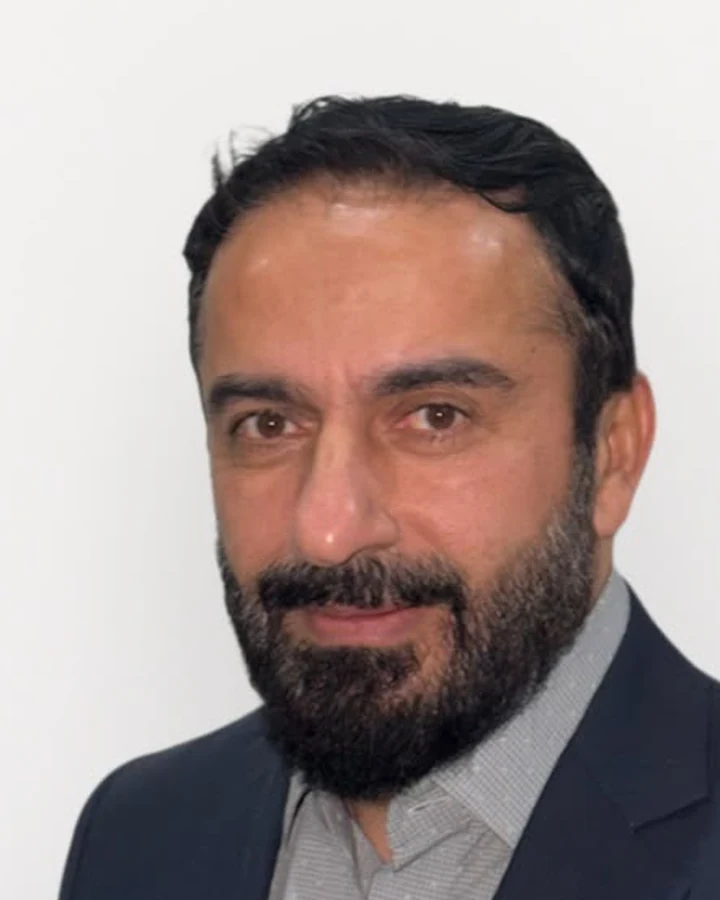
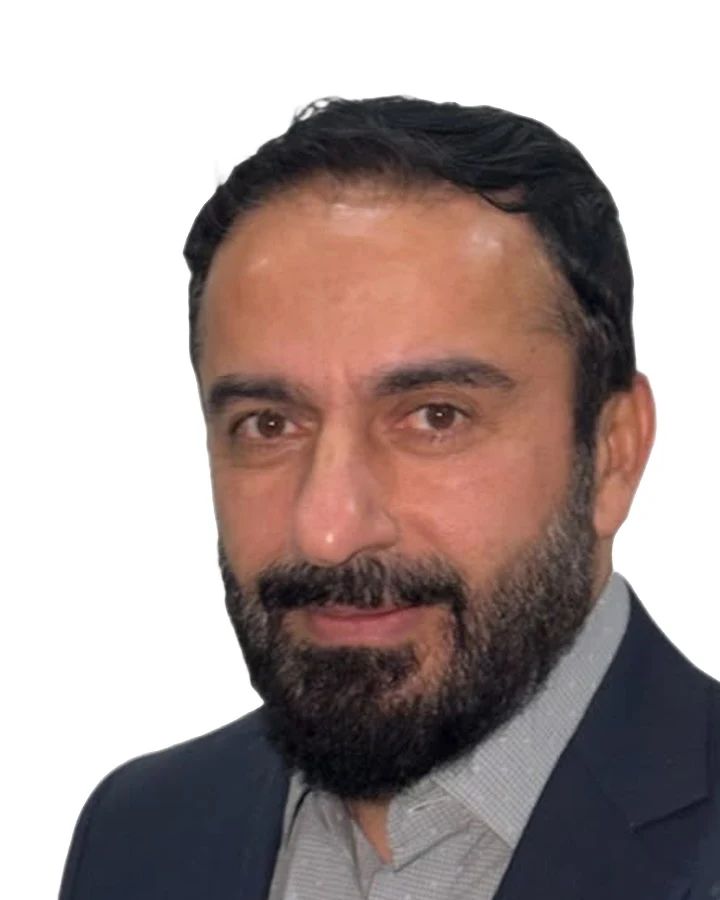
White backgrounds on all team photos

diff --git a/meet-the-team.html b/meet-the-team.html
@@ -22,50 +22,50 @@
 <nav class="nav" id="nav" aria-label="Main"><a href="invest-in-dubai.html"><span>Invest in Dubai</span></a><a href="services.html"><span>Services</span></a><a href="areas.html"><span>Areas</span></a><a href="meet-the-team.html" aria-current=page><span>The Team</span></a><a href="contact.html"><span>Private Consultation</span></a><a class="nav-x" href="https://www.bayut.com/companies/7ei8ht6-properties-8883/" target="_blank" rel="noopener"><span>View Properties</span></a></nav>
 <div class="hdr-r"><button class="lang" type="button" aria-pressed="false" aria-label="Show key headings in Arabic"><span class="l-en">EN</span><span class="l-ar" lang="ar">عربي</span></button>
 <button class="burger" aria-label="Open menu" aria-expanded="false" aria-controls="nav"><i></i><i></i></button></div></header>
-<main id="main"><section class="sub-hero"><div class="sub-bg" data-speed="0.22"><picture class=""><source media="(max-width:760px)" srcset="img/x-night-m.webp?v=13"><img src="img/x-night.webp" alt="Downtown Dubai at night" fetchpriority=high decoding="async"></picture></div><div class="sub-shade"></div>
+<main id="main"><section class="sub-hero"><div class="sub-bg" data-speed="0.22"><picture class=""><source media="(max-width:760px)" srcset="img/x-night-m.webp?v=14"><img src="img/x-night.webp" alt="Downtown Dubai at night" fetchpriority=high decoding="async"></picture></div><div class="sub-shade"></div>
 <div class="sub-in"><p class="kicker"><span>The team</span></p><h1 class="bi d1"><span class="en">38 people.<br>One advisor for you.</span><span class="ar" lang="ar" dir="rtl">فريقنا</span></h1><p class="lead">Every client is given one named advisor. You can reach any of us directly: the numbers below are our own.</p></div></section>
-<section class="leaders solo wrap"><article class="leader rv"><div class="ph"><img src="img/t-fayyaz.webp?v=13" alt="Portrait of Fayyaz (Abu Mustafa) Sayani" loading="lazy" decoding="async"></div>
+<section class="leaders solo wrap"><article class="leader rv"><div class="ph"><img src="img/t-fayyaz.webp?v=14" alt="Portrait of Fayyaz (Abu Mustafa) Sayani" loading="lazy" decoding="async"></div>
 <div class="ld-c"><p class="kicker"><span>Founder &amp; CEO</span></p><h2 class="d2">Fayyaz (Abu Mustafa) Sayani</h2><p class="rera">RERA No. 28370</p><p class="mc"><a href="tel:+971506468786">+971 50 646 8786</a><a href="mailto:fayyaz@7ei8ht6properties.com">fayyaz@7ei8ht6properties.com</a><a href="https://wa.me/971506468786" target="_blank" rel="noopener" aria-label="WhatsApp Fayyaz (Abu Mustafa) Sayani">WhatsApp</a></p></div></article></section>
 <section class="team wrap"><div class="filters" role="group" aria-label="Filter the team">
 <button class="chip on" data-f="all">Everyone (37)</button><button class="chip" data-f="Director">Director</button><button class="chip" data-f="Associate Director">Associate Director</button><button class="chip" data-f="Office Manager">Office Manager</button><button class="chip" data-f="Executive Assistant">Executive Assistant</button><button class="chip" data-f="Administrative Assistant">Administrative Assistant</button><button class="chip" data-f="Property Consultant">Property Consultant</button><button class="chip" data-f="Office Clerk">Office Clerk</button><button class="chip" data-f="Admin Assistant">Admin Assistant</button>
 <label class="search"><span class="sr">Search the team</span><input type="search" id="tsearch" placeholder="Search by name"></label></div>
-<div class="grid"><article class="member" data-role="Director" data-name="zahir alimahomed"><div class="ph"><img src="img/t-zahir.webp?v=13" alt="Portrait of Zahir Alimahomed" loading="lazy" decoding="async"></div>
-<div class="mi"><h3>Zahir Alimahomed</h3><p class="role">Director</p><p class="rera">RERA No. 86228</p><p class="mc"><a href="tel:+971528447229">+971 52 844 7229</a><a href="https://wa.me/971528447229" target="_blank" rel="noopener" aria-label="WhatsApp Zahir Alimahomed">WhatsApp</a></p></div></article><article class="member" data-role="Associate Director" data-name="iqbal ahmed abdullah"><div class="ph"><img src="img/t-iqbal.webp?v=13" alt="Portrait of Iqbal Ahmed Abdullah" loading="lazy" decoding="async"></div>
-<div class="mi"><h3>Iqbal Ahmed Abdullah</h3><p class="role">Associate Director</p><p class="mc"><a href="tel:+971506770131">+971 50 677 0131</a><a href="https://wa.me/971506770131" target="_blank" rel="noopener" aria-label="WhatsApp Iqbal Ahmed Abdullah">WhatsApp</a></p></div></article><article class="member" data-role="Office Manager" data-name="asha nagarupillai"><div class="ph"><img src="img/t-asha.webp?v=13" alt="Portrait of Asha Nagarupillai" loading="lazy" decoding="async"></div>
-<div class="mi"><h3>Asha Nagarupillai</h3><p class="role">Office Manager</p><p class="mc"><a href="tel:+971552410447">+971 55 241 0447</a><a href="https://wa.me/971552410447" target="_blank" rel="noopener" aria-label="WhatsApp Asha Nagarupillai">WhatsApp</a></p></div></article><article class="member" data-role="Executive Assistant" data-name="aiswarya rajeev"><div class="ph"><img src="img/t-aiswarya.webp?v=13" alt="Portrait of Aiswarya Rajeev" loading="lazy" decoding="async"></div>
-<div class="mi"><h3>Aiswarya Rajeev</h3><p class="role">Executive Assistant</p><p class="mc"><a href="tel:+971588008311">+971 58 800 8311</a><a href="https://wa.me/971588008311" target="_blank" rel="noopener" aria-label="WhatsApp Aiswarya Rajeev">WhatsApp</a></p></div></article><article class="member" data-role="Administrative Assistant" data-name="avishna ganesh"><div class="ph"><img src="img/t-avishna.webp?v=13" alt="Portrait of Avishna Ganesh" loading="lazy" decoding="async"></div>
-<div class="mi"><h3>Avishna Ganesh</h3><p class="role">Administrative Assistant</p><p class="mc"><a href="tel:+971508625664">+971 50 862 5664</a><a href="https://wa.me/971508625664" target="_blank" rel="noopener" aria-label="WhatsApp Avishna Ganesh">WhatsApp</a></p></div></article><article class="member" data-role="Associate Director" data-name="muhammad ali abdul sattar"><div class="ph"><img src="img/t-alisattar.webp?v=13" alt="Portrait of Muhammad Ali Abdul Sattar" loading="lazy" decoding="async"></div>
-<div class="mi"><h3>Muhammad Ali Abdul Sattar</h3><p class="role">Associate Director</p><p class="mc"><a href="tel:+971554243200">+971 55 424 3200</a><a href="https://wa.me/971554243200" target="_blank" rel="noopener" aria-label="WhatsApp Muhammad Ali Abdul Sattar">WhatsApp</a></p></div></article><article class="member" data-role="Property Consultant" data-name="divya prakash"><div class="ph"><img src="img/t-divya.webp?v=13" alt="Portrait of Divya Prakash" loading="lazy" decoding="async"></div>
-<div class="mi"><h3>Divya Prakash</h3><p class="role">Property Consultant</p><p class="rera">RERA No. 100215</p><p class="mc"><a href="tel:+971501475717">+971 50 147 5717</a><a href="https://wa.me/971501475717" target="_blank" rel="noopener" aria-label="WhatsApp Divya Prakash">WhatsApp</a></p></div></article><article class="member" data-role="Property Consultant" data-name="khalid awadh"><div class="ph"><img src="img/t-khalid.webp?v=13" alt="Portrait of Khalid Awadh" loading="lazy" decoding="async"></div>
-<div class="mi"><h3>Khalid Awadh</h3><p class="role">Property Consultant</p><p class="rera">RERA No. 30126</p><p class="mc"><a href="tel:+971556207707">+971 55 620 7707</a><a href="https://wa.me/971556207707" target="_blank" rel="noopener" aria-label="WhatsApp Khalid Awadh">WhatsApp</a></p></div></article><article class="member" data-role="Property Consultant" data-name="yousaf nouman"><div class="ph"><img src="img/t-yousaf.webp?v=13" alt="Portrait of Yousaf Nouman" loading="lazy" decoding="async"></div>
-<div class="mi"><h3>Yousaf Nouman</h3><p class="role">Property Consultant</p><p class="rera">RERA No. 42532</p><p class="mc"><a href="tel:+971559168978">+971 55 916 8978</a><a href="https://wa.me/971559168978" target="_blank" rel="noopener" aria-label="WhatsApp Yousaf Nouman">WhatsApp</a></p></div></article><article class="member" data-role="Property Consultant" data-name="mohamed rimnaz"><div class="ph"><img src="img/t-rimnaz.webp?v=13" alt="Portrait of Mohamed Rimnaz" loading="lazy" decoding="async"></div>
-<div class="mi"><h3>Mohamed Rimnaz</h3><p class="role">Property Consultant</p><p class="rera">RERA No. 58866</p><p class="mc"><a href="tel:+971551082177">+971 55 108 2177</a><a href="https://wa.me/971563727202" target="_blank" rel="noopener" aria-label="WhatsApp Mohamed Rimnaz">WhatsApp</a></p></div></article><article class="member" data-role="Property Consultant" data-name="shabnam gulamzada"><div class="ph"><img src="img/t-shabnam.webp?v=13" alt="Portrait of Shabnam Gulamzada" loading="lazy" decoding="async"></div>
-<div class="mi"><h3>Shabnam Gulamzada</h3><p class="role">Property Consultant</p><p class="mc"><a href="tel:+971544786999">+971 54 478 6999</a><a href="https://wa.me/971544786999" target="_blank" rel="noopener" aria-label="WhatsApp Shabnam Gulamzada">WhatsApp</a></p></div></article><article class="member" data-role="Property Consultant" data-name="mohammed abdul arbaaz"><div class="ph"><img src="img/t-arbaaz.webp?v=13" alt="Portrait of Mohammed Abdul Arbaaz" loading="lazy" decoding="async"></div>
-<div class="mi"><h3>Mohammed Abdul Arbaaz</h3><p class="role">Property Consultant</p><p class="rera">RERA No. 88888</p><p class="mc"><a href="tel:+971553020319">+971 55 302 0319</a><a href="https://wa.me/971553020319" target="_blank" rel="noopener" aria-label="WhatsApp Mohammed Abdul Arbaaz">WhatsApp</a></p></div></article><article class="member" data-role="Property Consultant" data-name="rahmath khan mohammed"><div class="ph"><img src="img/t-kashif.webp?v=13" alt="Portrait of Rahmath Khan Mohammed" loading="lazy" decoding="async"></div>
-<div class="mi"><h3>Rahmath Khan Mohammed</h3><p class="role">Property Consultant</p><p class="rera">RERA No. 89787</p><p class="mc"><a href="tel:+971564946215">+971 56 494 6215</a><a href="https://wa.me/971564946215" target="_blank" rel="noopener" aria-label="WhatsApp Rahmath Khan Mohammed">WhatsApp</a></p></div></article><article class="member" data-role="Property Consultant" data-name="saoud faisal bayazeed"><div class="ph"><img src="img/t-saoud.webp?v=13" alt="Portrait of Saoud Faisal Bayazeed" loading="lazy" decoding="async"></div>
-<div class="mi"><h3>Saoud Faisal Bayazeed</h3><p class="role">Property Consultant</p><p class="rera">RERA No. 88889</p><p class="mc"><a href="tel:+971521298470">+971 52 129 8470</a><a href="https://wa.me/971521298470" target="_blank" rel="noopener" aria-label="WhatsApp Saoud Faisal Bayazeed">WhatsApp</a></p></div></article><article class="member" data-role="Property Consultant" data-name="muhammad zain alimahomed"><div class="ph"><img src="img/t-zain.webp?v=13" alt="Portrait of Muhammad Zain Alimahomed" loading="lazy" decoding="async"></div>
-<div class="mi"><h3>Muhammad Zain Alimahomed</h3><p class="role">Property Consultant</p><p class="mc"><a href="tel:+97144439780">+971 4 443 9780</a></p></div></article><article class="member" data-role="Office Clerk" data-name="teresa materum"><div class="ph"><img src="img/t-teresa.webp?v=13" alt="Portrait of Teresa Materum" loading="lazy" decoding="async"></div>
-<div class="mi"><h3>Teresa Materum</h3><p class="role">Office Clerk</p><p class="mc"><a href="tel:+97144439780">+971 4 443 9780</a></p></div></article><article class="member" data-role="Office Clerk" data-name="jessa abaya lopez"><div class="ph"><img src="img/t-jessa.webp?v=13" alt="Portrait of Jessa Abaya Lopez" loading="lazy" decoding="async"></div>
-<div class="mi"><h3>Jessa Abaya Lopez</h3><p class="role">Office Clerk</p><p class="mc"><a href="tel:+97144439780">+971 4 443 9780</a></p></div></article><article class="member" data-role="Office Clerk" data-name="rhea ann banares"><div class="ph"><img src="img/t-rhea.webp?v=13" alt="Portrait of Rhea Ann Banares" loading="lazy" decoding="async"></div>
-<div class="mi"><h3>Rhea Ann Banares</h3><p class="role">Office Clerk</p><p class="mc"><a href="tel:+97144439780">+971 4 443 9780</a></p></div></article><article class="member" data-role="Property Consultant" data-name="mohammed jeelani gulam"><div class="ph"><img src="img/t-jeelani.webp?v=13" alt="Portrait of Mohammed Jeelani Gulam" loading="lazy" decoding="async"></div>
-<div class="mi"><h3>Mohammed Jeelani Gulam</h3><p class="role">Property Consultant</p><p class="mc"><a href="tel:+97144439780">+971 4 443 9780</a></p></div></article><article class="member" data-role="Property Consultant" data-name="muhammad junaid azhar"><div class="ph"><img src="img/t-junaid.webp?v=13" alt="Portrait of Muhammad Junaid Azhar" loading="lazy" decoding="async"></div>
-<div class="mi"><h3>Muhammad Junaid Azhar</h3><p class="role">Property Consultant</p><p class="mc"><a href="tel:+97144439780">+971 4 443 9780</a></p></div></article><article class="member" data-role="Property Consultant" data-name="juned rafik ghanchi"><div class="ph"><img src="img/t-ghanchi.webp?v=13" alt="Portrait of Juned Rafik Ghanchi" loading="lazy" decoding="async"></div>
-<div class="mi"><h3>Juned Rafik Ghanchi</h3><p class="role">Property Consultant</p><p class="mc"><a href="tel:+97144439780">+971 4 443 9780</a></p></div></article><article class="member" data-role="Property Consultant" data-name="abdul rasheed"><div class="ph"><img src="img/t-rasheed.webp?v=13" alt="Portrait of Abdul Rasheed" loading="lazy" decoding="async"></div>
-<div class="mi"><h3>Abdul Rasheed</h3><p class="role">Property Consultant</p><p class="mc"><a href="tel:+97144439780">+971 4 443 9780</a></p></div></article><article class="member" data-role="Property Consultant" data-name="obaida al-jahmi"><div class="ph"><img src="img/t-obaida.webp?v=13" alt="Portrait of Obaida Al-Jahmi" loading="lazy" decoding="async"></div>
-<div class="mi"><h3>Obaida Al-Jahmi</h3><p class="role">Property Consultant</p><p class="mc"><a href="tel:+97144439780">+971 4 443 9780</a></p></div></article><article class="member" data-role="Property Consultant" data-name="frederick nkwenti"><div class="ph"><img src="img/t-fred.webp?v=13" alt="Portrait of Frederick Nkwenti" loading="lazy" decoding="async"></div>
-<div class="mi"><h3>Frederick Nkwenti</h3><p class="role">Property Consultant</p><p class="mc"><a href="tel:+97144439780">+971 4 443 9780</a></p></div></article><article class="member" data-role="Executive Assistant" data-name="blaise quinga"><div class="ph"><img src="img/t-blaise.webp?v=13" alt="Portrait of Blaise Quinga" loading="lazy" decoding="async"></div>
-<div class="mi"><h3>Blaise Quinga</h3><p class="role">Executive Assistant</p><p class="mc"><a href="tel:+97144439780">+971 4 443 9780</a></p></div></article><article class="member" data-role="Property Consultant" data-name="samer haj"><div class="ph"><img src="img/t-samer.webp?v=13" alt="Portrait of Samer Haj" loading="lazy" decoding="async"></div>
-<div class="mi"><h3>Samer Haj</h3><p class="role">Property Consultant</p><p class="mc"><a href="tel:+97144439780">+971 4 443 9780</a></p></div></article><article class="member" data-role="Property Consultant" data-name="muhammad kamran"><div class="ph"><img src="img/t-kamran.webp?v=13" alt="Portrait of Muhammad Kamran" loading="lazy" decoding="async"></div>
-<div class="mi"><h3>Muhammad Kamran</h3><p class="role">Property Consultant</p><p class="mc"><a href="tel:+97144439780">+971 4 443 9780</a></p></div></article><article class="member" data-role="Property Consultant" data-name="mushtaq ahmed"><div class="ph"><img src="img/t-mushtaq.webp?v=13" alt="Portrait of Mushtaq Ahmed" loading="lazy" decoding="async"></div>
-<div class="mi"><h3>Mushtaq Ahmed</h3><p class="role">Property Consultant</p><p class="mc"><a href="tel:+97144439780">+971 4 443 9780</a></p></div></article><article class="member" data-role="Property Consultant" data-name="nethin cot"><div class="ph"><img src="img/t-nethin.webp?v=13" alt="Portrait of Nethin Cot" loading="lazy" decoding="async"></div>
-<div class="mi"><h3>Nethin Cot</h3><p class="role">Property Consultant</p><p class="mc"><a href="tel:+97144439780">+971 4 443 9780</a></p></div></article><article class="member" data-role="Property Consultant" data-name="nabil peerally"><div class="ph"><img src="img/t-nabil.webp?v=13" alt="Portrait of Nabil Peerally" loading="lazy" decoding="async"></div>
-<div class="mi"><h3>Nabil Peerally</h3><p class="role">Property Consultant</p><p class="mc"><a href="tel:+97144439780">+971 4 443 9780</a></p></div></article><article class="member" data-role="Property Consultant" data-name="nikhil ahmed"><div class="ph"><img src="img/t-nikhil.webp?v=13" alt="Portrait of Nikhil Ahmed" loading="lazy" decoding="async"></div>
-<div class="mi"><h3>Nikhil Ahmed</h3><p class="role">Property Consultant</p><p class="mc"><a href="tel:+97144439780">+971 4 443 9780</a></p></div></article><article class="member" data-role="Property Consultant" data-name="malik muhammad ishaq"><div class="ph"><img src="img/t-malik.webp?v=13" alt="Portrait of Malik Muhammad Ishaq" loading="lazy" decoding="async"></div>
-<div class="mi"><h3>Malik Muhammad Ishaq</h3><p class="role">Property Consultant</p><p class="mc"><a href="tel:+97144439780">+971 4 443 9780</a></p></div></article><article class="member" data-role="Property Consultant" data-name="mahboob ali khan mir"><div class="ph"><img src="img/t-mahboob.webp?v=13" alt="Portrait of Mahboob Ali Khan Mir" loading="lazy" decoding="async"></div>
-<div class="mi"><h3>Mahboob Ali Khan Mir</h3><p class="role">Property Consultant</p><p class="mc"><a href="tel:+97144439780">+971 4 443 9780</a></p></div></article><article class="member" data-role="Property Consultant" data-name="faisal murtaza"><div class="ph"><img src="img/t-faisal.webp?v=13" alt="Portrait of Faisal Murtaza" loading="lazy" decoding="async"></div>
-<div class="mi"><h3>Faisal Murtaza</h3><p class="role">Property Consultant</p><p class="mc"><a href="tel:+97144439780">+971 4 443 9780</a></p></div></article><article class="member" data-role="Property Consultant" data-name="ashfaque shaikh"><div class="ph"><img src="img/t-ashfaque.webp?v=13" alt="Portrait of Ashfaque Shaikh" loading="lazy" decoding="async"></div>
-<div class="mi"><h3>Ashfaque Shaikh</h3><p class="role">Property Consultant</p><p class="mc"><a href="tel:+97144439780">+971 4 443 9780</a></p></div></article><article class="member" data-role="Property Consultant" data-name="balal asad"><div class="ph"><img src="img/t-balal.webp?v=13" alt="Portrait of Balal Asad" loading="lazy" decoding="async"></div>
-<div class="mi"><h3>Balal Asad</h3><p class="role">Property Consultant</p><p class="mc"><a href="tel:+97144439780">+971 4 443 9780</a></p></div></article><article class="member" data-role="Admin Assistant" data-name="hazel heramil"><div class="ph"><img src="img/t-hazel.webp?v=13" alt="Portrait of Hazel Heramil" loading="lazy" decoding="async"></div>
+<div class="grid"><article class="member" data-role="Director" data-name="zahir alimahomed"><div class="ph"><img src="img/t-zahir.webp?v=14" alt="Portrait of Zahir Alimahomed" loading="lazy" decoding="async"></div>
+<div class="mi"><h3>Zahir Alimahomed</h3><p class="role">Director</p><p class="rera">RERA No. 86228</p><p class="mc"><a href="tel:+971528447229">+971 52 844 7229</a><a href="https://wa.me/971528447229" target="_blank" rel="noopener" aria-label="WhatsApp Zahir Alimahomed">WhatsApp</a></p></div></article><article class="member" data-role="Associate Director" data-name="iqbal ahmed abdullah"><div class="ph"><img src="img/t-iqbal.webp?v=14" alt="Portrait of Iqbal Ahmed Abdullah" loading="lazy" decoding="async"></div>
+<div class="mi"><h3>Iqbal Ahmed Abdullah</h3><p class="role">Associate Director</p><p class="mc"><a href="tel:+971506770131">+971 50 677 0131</a><a href="https://wa.me/971506770131" target="_blank" rel="noopener" aria-label="WhatsApp Iqbal Ahmed Abdullah">WhatsApp</a></p></div></article><article class="member" data-role="Office Manager" data-name="asha nagarupillai"><div class="ph"><img src="img/t-asha.webp?v=14" alt="Portrait of Asha Nagarupillai" loading="lazy" decoding="async"></div>
+<div class="mi"><h3>Asha Nagarupillai</h3><p class="role">Office Manager</p><p class="mc"><a href="tel:+971552410447">+971 55 241 0447</a><a href="https://wa.me/971552410447" target="_blank" rel="noopener" aria-label="WhatsApp Asha Nagarupillai">WhatsApp</a></p></div></article><article class="member" data-role="Executive Assistant" data-name="aiswarya rajeev"><div class="ph"><img src="img/t-aiswarya.webp?v=14" alt="Portrait of Aiswarya Rajeev" loading="lazy" decoding="async"></div>
+<div class="mi"><h3>Aiswarya Rajeev</h3><p class="role">Executive Assistant</p><p class="mc"><a href="tel:+971588008311">+971 58 800 8311</a><a href="https://wa.me/971588008311" target="_blank" rel="noopener" aria-label="WhatsApp Aiswarya Rajeev">WhatsApp</a></p></div></article><article class="member" data-role="Administrative Assistant" data-name="avishna ganesh"><div class="ph"><img src="img/t-avishna.webp?v=14" alt="Portrait of Avishna Ganesh" loading="lazy" decoding="async"></div>
+<div class="mi"><h3>Avishna Ganesh</h3><p class="role">Administrative Assistant</p><p class="mc"><a href="tel:+971508625664">+971 50 862 5664</a><a href="https://wa.me/971508625664" target="_blank" rel="noopener" aria-label="WhatsApp Avishna Ganesh">WhatsApp</a></p></div></article><article class="member" data-role="Associate Director" data-name="muhammad ali abdul sattar"><div class="ph"><img src="img/t-alisattar.webp?v=14" alt="Portrait of Muhammad Ali Abdul Sattar" loading="lazy" decoding="async"></div>
+<div class="mi"><h3>Muhammad Ali Abdul Sattar</h3><p class="role">Associate Director</p><p class="mc"><a href="tel:+971554243200">+971 55 424 3200</a><a href="https://wa.me/971554243200" target="_blank" rel="noopener" aria-label="WhatsApp Muhammad Ali Abdul Sattar">WhatsApp</a></p></div></article><article class="member" data-role="Property Consultant" data-name="divya prakash"><div class="ph"><img src="img/t-divya.webp?v=14" alt="Portrait of Divya Prakash" loading="lazy" decoding="async"></div>
+<div class="mi"><h3>Divya Prakash</h3><p class="role">Property Consultant</p><p class="rera">RERA No. 100215</p><p class="mc"><a href="tel:+971501475717">+971 50 147 5717</a><a href="https://wa.me/971501475717" target="_blank" rel="noopener" aria-label="WhatsApp Divya Prakash">WhatsApp</a></p></div></article><article class="member" data-role="Property Consultant" data-name="khalid awadh"><div class="ph"><img src="img/t-khalid.webp?v=14" alt="Portrait of Khalid Awadh" loading="lazy" decoding="async"></div>
+<div class="mi"><h3>Khalid Awadh</h3><p class="role">Property Consultant</p><p class="rera">RERA No. 30126</p><p class="mc"><a href="tel:+971556207707">+971 55 620 7707</a><a href="https://wa.me/971556207707" target="_blank" rel="noopener" aria-label="WhatsApp Khalid Awadh">WhatsApp</a></p></div></article><article class="member" data-role="Property Consultant" data-name="yousaf nouman"><div class="ph"><img src="img/t-yousaf.webp?v=14" alt="Portrait of Yousaf Nouman" loading="lazy" decoding="async"></div>
+<div class="mi"><h3>Yousaf Nouman</h3><p class="role">Property Consultant</p><p class="rera">RERA No. 42532</p><p class="mc"><a href="tel:+971559168978">+971 55 916 8978</a><a href="https://wa.me/971559168978" target="_blank" rel="noopener" aria-label="WhatsApp Yousaf Nouman">WhatsApp</a></p></div></article><article class="member" data-role="Property Consultant" data-name="mohamed rimnaz"><div class="ph"><img src="img/t-rimnaz.webp?v=14" alt="Portrait of Mohamed Rimnaz" loading="lazy" decoding="async"></div>
+<div class="mi"><h3>Mohamed Rimnaz</h3><p class="role">Property Consultant</p><p class="rera">RERA No. 58866</p><p class="mc"><a href="tel:+971551082177">+971 55 108 2177</a><a href="https://wa.me/971563727202" target="_blank" rel="noopener" aria-label="WhatsApp Mohamed Rimnaz">WhatsApp</a></p></div></article><article class="member" data-role="Property Consultant" data-name="shabnam gulamzada"><div class="ph"><img src="img/t-shabnam.webp?v=14" alt="Portrait of Shabnam Gulamzada" loading="lazy" decoding="async"></div>
+<div class="mi"><h3>Shabnam Gulamzada</h3><p class="role">Property Consultant</p><p class="mc"><a href="tel:+971544786999">+971 54 478 6999</a><a href="https://wa.me/971544786999" target="_blank" rel="noopener" aria-label="WhatsApp Shabnam Gulamzada">WhatsApp</a></p></div></article><article class="member" data-role="Property Consultant" data-name="mohammed abdul arbaaz"><div class="ph"><img src="img/t-arbaaz.webp?v=14" alt="Portrait of Mohammed Abdul Arbaaz" loading="lazy" decoding="async"></div>
+<div class="mi"><h3>Mohammed Abdul Arbaaz</h3><p class="role">Property Consultant</p><p class="rera">RERA No. 88888</p><p class="mc"><a href="tel:+971553020319">+971 55 302 0319</a><a href="https://wa.me/971553020319" target="_blank" rel="noopener" aria-label="WhatsApp Mohammed Abdul Arbaaz">WhatsApp</a></p></div></article><article class="member" data-role="Property Consultant" data-name="rahmath khan mohammed"><div class="ph"><img src="img/t-kashif.webp?v=14" alt="Portrait of Rahmath Khan Mohammed" loading="lazy" decoding="async"></div>
+<div class="mi"><h3>Rahmath Khan Mohammed</h3><p class="role">Property Consultant</p><p class="rera">RERA No. 89787</p><p class="mc"><a href="tel:+971564946215">+971 56 494 6215</a><a href="https://wa.me/971564946215" target="_blank" rel="noopener" aria-label="WhatsApp Rahmath Khan Mohammed">WhatsApp</a></p></div></article><article class="member" data-role="Property Consultant" data-name="saoud faisal bayazeed"><div class="ph"><img src="img/t-saoud.webp?v=14" alt="Portrait of Saoud Faisal Bayazeed" loading="lazy" decoding="async"></div>
+<div class="mi"><h3>Saoud Faisal Bayazeed</h3><p class="role">Property Consultant</p><p class="rera">RERA No. 88889</p><p class="mc"><a href="tel:+971521298470">+971 52 129 8470</a><a href="https://wa.me/971521298470" target="_blank" rel="noopener" aria-label="WhatsApp Saoud Faisal Bayazeed">WhatsApp</a></p></div></article><article class="member" data-role="Property Consultant" data-name="muhammad zain alimahomed"><div class="ph"><img src="img/t-zain.webp?v=14" alt="Portrait of Muhammad Zain Alimahomed" loading="lazy" decoding="async"></div>
+<div class="mi"><h3>Muhammad Zain Alimahomed</h3><p class="role">Property Consultant</p><p class="mc"><a href="tel:+97144439780">+971 4 443 9780</a></p></div></article><article class="member" data-role="Office Clerk" data-name="teresa materum"><div class="ph"><img src="img/t-teresa.webp?v=14" alt="Portrait of Teresa Materum" loading="lazy" decoding="async"></div>
+<div class="mi"><h3>Teresa Materum</h3><p class="role">Office Clerk</p><p class="mc"><a href="tel:+97144439780">+971 4 443 9780</a></p></div></article><article class="member" data-role="Office Clerk" data-name="jessa abaya lopez"><div class="ph"><img src="img/t-jessa.webp?v=14" alt="Portrait of Jessa Abaya Lopez" loading="lazy" decoding="async"></div>
+<div class="mi"><h3>Jessa Abaya Lopez</h3><p class="role">Office Clerk</p><p class="mc"><a href="tel:+97144439780">+971 4 443 9780</a></p></div></article><article class="member" data-role="Office Clerk" data-name="rhea ann banares"><div class="ph"><img src="img/t-rhea.webp?v=14" alt="Portrait of Rhea Ann Banares" loading="lazy" decoding="async"></div>
+<div class="mi"><h3>Rhea Ann Banares</h3><p class="role">Office Clerk</p><p class="mc"><a href="tel:+97144439780">+971 4 443 9780</a></p></div></article><article class="member" data-role="Property Consultant" data-name="mohammed jeelani gulam"><div class="ph"><img src="img/t-jeelani.webp?v=14" alt="Portrait of Mohammed Jeelani Gulam" loading="lazy" decoding="async"></div>
+<div class="mi"><h3>Mohammed Jeelani Gulam</h3><p class="role">Property Consultant</p><p class="mc"><a href="tel:+97144439780">+971 4 443 9780</a></p></div></article><article class="member" data-role="Property Consultant" data-name="muhammad junaid azhar"><div class="ph"><img src="img/t-junaid.webp?v=14" alt="Portrait of Muhammad Junaid Azhar" loading="lazy" decoding="async"></div>
+<div class="mi"><h3>Muhammad Junaid Azhar</h3><p class="role">Property Consultant</p><p class="mc"><a href="tel:+97144439780">+971 4 443 9780</a></p></div></article><article class="member" data-role="Property Consultant" data-name="juned rafik ghanchi"><div class="ph"><img src="img/t-ghanchi.webp?v=14" alt="Portrait of Juned Rafik Ghanchi" loading="lazy" decoding="async"></div>
+<div class="mi"><h3>Juned Rafik Ghanchi</h3><p class="role">Property Consultant</p><p class="mc"><a href="tel:+97144439780">+971 4 443 9780</a></p></div></article><article class="member" data-role="Property Consultant" data-name="abdul rasheed"><div class="ph"><img src="img/t-rasheed.webp?v=14" alt="Portrait of Abdul Rasheed" loading="lazy" decoding="async"></div>
+<div class="mi"><h3>Abdul Rasheed</h3><p class="role">Property Consultant</p><p class="mc"><a href="tel:+97144439780">+971 4 443 9780</a></p></div></article><article class="member" data-role="Property Consultant" data-name="obaida al-jahmi"><div class="ph"><img src="img/t-obaida.webp?v=14" alt="Portrait of Obaida Al-Jahmi" loading="lazy" decoding="async"></div>
+<div class="mi"><h3>Obaida Al-Jahmi</h3><p class="role">Property Consultant</p><p class="mc"><a href="tel:+97144439780">+971 4 443 9780</a></p></div></article><article class="member" data-role="Property Consultant" data-name="frederick nkwenti"><div class="ph"><img src="img/t-fred.webp?v=14" alt="Portrait of Frederick Nkwenti" loading="lazy" decoding="async"></div>
+<div class="mi"><h3>Frederick Nkwenti</h3><p class="role">Property Consultant</p><p class="mc"><a href="tel:+97144439780">+971 4 443 9780</a></p></div></article><article class="member" data-role="Executive Assistant" data-name="blaise quinga"><div class="ph"><img src="img/t-blaise.webp?v=14" alt="Portrait of Blaise Quinga" loading="lazy" decoding="async"></div>
+<div class="mi"><h3>Blaise Quinga</h3><p class="role">Executive Assistant</p><p class="mc"><a href="tel:+97144439780">+971 4 443 9780</a></p></div></article><article class="member" data-role="Property Consultant" data-name="samer haj"><div class="ph"><img src="img/t-samer.webp?v=14" alt="Portrait of Samer Haj" loading="lazy" decoding="async"></div>
+<div class="mi"><h3>Samer Haj</h3><p class="role">Property Consultant</p><p class="mc"><a href="tel:+97144439780">+971 4 443 9780</a></p></div></article><article class="member" data-role="Property Consultant" data-name="muhammad kamran"><div class="ph"><img src="img/t-kamran.webp?v=14" alt="Portrait of Muhammad Kamran" loading="lazy" decoding="async"></div>
+<div class="mi"><h3>Muhammad Kamran</h3><p class="role">Property Consultant</p><p class="mc"><a href="tel:+97144439780">+971 4 443 9780</a></p></div></article><article class="member" data-role="Property Consultant" data-name="mushtaq ahmed"><div class="ph"><img src="img/t-mushtaq.webp?v=14" alt="Portrait of Mushtaq Ahmed" loading="lazy" decoding="async"></div>
+<div class="mi"><h3>Mushtaq Ahmed</h3><p class="role">Property Consultant</p><p class="mc"><a href="tel:+97144439780">+971 4 443 9780</a></p></div></article><article class="member" data-role="Property Consultant" data-name="nethin cot"><div class="ph"><img src="img/t-nethin.webp?v=14" alt="Portrait of Nethin Cot" loading="lazy" decoding="async"></div>
+<div class="mi"><h3>Nethin Cot</h3><p class="role">Property Consultant</p><p class="mc"><a href="tel:+97144439780">+971 4 443 9780</a></p></div></article><article class="member" data-role="Property Consultant" data-name="nabil peerally"><div class="ph"><img src="img/t-nabil.webp?v=14" alt="Portrait of Nabil Peerally" loading="lazy" decoding="async"></div>
+<div class="mi"><h3>Nabil Peerally</h3><p class="role">Property Consultant</p><p class="mc"><a href="tel:+97144439780">+971 4 443 9780</a></p></div></article><article class="member" data-role="Property Consultant" data-name="nikhil ahmed"><div class="ph"><img src="img/t-nikhil.webp?v=14" alt="Portrait of Nikhil Ahmed" loading="lazy" decoding="async"></div>
+<div class="mi"><h3>Nikhil Ahmed</h3><p class="role">Property Consultant</p><p class="mc"><a href="tel:+97144439780">+971 4 443 9780</a></p></div></article><article class="member" data-role="Property Consultant" data-name="malik muhammad ishaq"><div class="ph"><img src="img/t-malik.webp?v=14" alt="Portrait of Malik Muhammad Ishaq" loading="lazy" decoding="async"></div>
+<div class="mi"><h3>Malik Muhammad Ishaq</h3><p class="role">Property Consultant</p><p class="mc"><a href="tel:+97144439780">+971 4 443 9780</a></p></div></article><article class="member" data-role="Property Consultant" data-name="mahboob ali khan mir"><div class="ph"><img src="img/t-mahboob.webp?v=14" alt="Portrait of Mahboob Ali Khan Mir" loading="lazy" decoding="async"></div>
+<div class="mi"><h3>Mahboob Ali Khan Mir</h3><p class="role">Property Consultant</p><p class="mc"><a href="tel:+97144439780">+971 4 443 9780</a></p></div></article><article class="member" data-role="Property Consultant" data-name="faisal murtaza"><div class="ph"><img src="img/t-faisal.webp?v=14" alt="Portrait of Faisal Murtaza" loading="lazy" decoding="async"></div>
+<div class="mi"><h3>Faisal Murtaza</h3><p class="role">Property Consultant</p><p class="mc"><a href="tel:+97144439780">+971 4 443 9780</a></p></div></article><article class="member" data-role="Property Consultant" data-name="ashfaque shaikh"><div class="ph"><img src="img/t-ashfaque.webp?v=14" alt="Portrait of Ashfaque Shaikh" loading="lazy" decoding="async"></div>
+<div class="mi"><h3>Ashfaque Shaikh</h3><p class="role">Property Consultant</p><p class="mc"><a href="tel:+97144439780">+971 4 443 9780</a></p></div></article><article class="member" data-role="Property Consultant" data-name="balal asad"><div class="ph"><img src="img/t-balal.webp?v=14" alt="Portrait of Balal Asad" loading="lazy" decoding="async"></div>
+<div class="mi"><h3>Balal Asad</h3><p class="role">Property Consultant</p><p class="mc"><a href="tel:+97144439780">+971 4 443 9780</a></p></div></article><article class="member" data-role="Admin Assistant" data-name="hazel heramil"><div class="ph"><img src="img/t-hazel.webp?v=14" alt="Portrait of Hazel Heramil" loading="lazy" decoding="async"></div>
 <div class="mi"><h3>Hazel Heramil</h3><p class="role">Admin Assistant</p><p class="mc"><a href="tel:+97144439780">+971 4 443 9780</a></p></div></article></div><p class="empty" hidden>No one matches that search.</p></section>
 <section class="talk wrap"><svg class="khatam" viewBox="0 0 40 40" aria-hidden="true"><path d="M20 3 25 15 37 20 25 25 20 37 15 25 3 20 15 15Z M8 8 20 13 32 8 27 20 32 32 20 27 8 32 13 20Z"/></svg><p class="kicker rv"><span>Where to begin</span></p><h2 class="bi d1 rv"><span class="en">Not sure who to call?</span><span class="ar" lang="ar" dir="rtl">لا تعرف بمن تتصل؟</span></h2><p class="lead rv">Start a brief and we will match you with the right advisor.</p><div class="ctas rv"><a class="btn" href="contact.html#consult"><span>Begin your brief</span></a></div></section></main>
 <a class="wa-float" href="https://wa.me/971506468786?text=Hello%207ei8ht6%20Properties%2C%20I%20would%20like%20to%20speak%20with%20an%20advisor." target="_blank" rel="noopener" aria-label="Message an advisor on WhatsApp"><svg viewBox="0 0 32 32" width="20" height="20" aria-hidden="true"><path fill="currentColor" d="M16 3a13 13 0 0 0-11.2 19.6L3 29l6.6-1.7A13 13 0 1 0 16 3zm0 23.7c-2 0-4-.6-5.7-1.6l-.4-.2-3.9 1 1-3.8-.3-.4A10.7 10.7 0 1 1 16 26.7zm5.9-8c-.3-.2-1.9-1-2.2-1s-.5-.2-.7.2l-1 1.2c-.2.2-.4.2-.7.1a8.8 8.8 0 0 1-4.4-3.8c-.3-.6.3-.5 1-1.8.1-.2 0-.4 0-.6l-1-2.4c-.3-.6-.5-.5-.7-.5h-.6a1.2 1.2 0 0 0-.9.4 3.6 3.6 0 0 0-1.1 2.7 6.3 6.3 0 0 0 1.3 3.3 14.4 14.4 0 0 0 5.5 4.9c2 .9 2.9 1 3.9.8a3.3 3.3 0 0 0 2.2-1.5 2.7 2.7 0 0 0 .2-1.5c-.1-.2-.3-.3-.6-.4z"/></svg><span>WhatsApp</span></a>

diff --git a/index.html b/index.html
@@ -60,7 +60,7 @@
 <section class="team-band"><div class="wrap tb">
 <div class="tb-copy"><p class="kicker rv"><span>The people</span></p><h2 class="bi d2 rv"><span class="en">38 people.<br>One advisor for you.</span><span class="ar" lang="ar" dir="rtl">فريق من 38 شخصًا<br>ومستشار واحد لك</span></h2>
 <p class="body rv">Led by our founder, Fayyaz (Abu Mustafa) Sayani, and director Zahir Alimahomed. Every client is given one named advisor, reachable directly by phone, email and WhatsApp.</p><a class="tl rv" href="meet-the-team.html">Meet the team</a></div>
-<div class="tb-faces" aria-hidden="true"><img src="img/t-fayyaz.webp?v=13" alt="" loading="lazy" decoding="async"><img src="img/t-zahir.webp?v=13" alt="" loading="lazy" decoding="async"><img src="img/t-iqbal.webp?v=13" alt="" loading="lazy" decoding="async"><img src="img/t-asha.webp?v=13" alt="" loading="lazy" decoding="async"><img src="img/t-aiswarya.webp?v=13" alt="" loading="lazy" decoding="async"><img src="img/t-avishna.webp?v=13" alt="" loading="lazy" decoding="async"><img src="img/t-alisattar.webp?v=13" alt="" loading="lazy" decoding="async"><img src="img/t-divya.webp?v=13" alt="" loading="lazy" decoding="async"><img src="img/t-khalid.webp?v=13" alt="" loading="lazy" decoding="async"></div></div></section>
+<div class="tb-faces" aria-hidden="true"><img src="img/t-fayyaz.webp?v=14" alt="" loading="lazy" decoding="async"><img src="img/t-zahir.webp?v=14" alt="" loading="lazy" decoding="async"><img src="img/t-iqbal.webp?v=14" alt="" loading="lazy" decoding="async"><img src="img/t-asha.webp?v=14" alt="" loading="lazy" decoding="async"><img src="img/t-aiswarya.webp?v=14" alt="" loading="lazy" decoding="async"><img src="img/t-avishna.webp?v=14" alt="" loading="lazy" decoding="async"><img src="img/t-alisattar.webp?v=14" alt="" loading="lazy" decoding="async"><img src="img/t-divya.webp?v=14" alt="" loading="lazy" decoding="async"><img src="img/t-khalid.webp?v=14" alt="" loading="lazy" decoding="async"></div></div></section>
 
 <section class="viewing"><div class="v-bg" data-speed="0.18"><picture class=""><source media="(max-width:760px)" srcset="img/x-lake-m.webp"><img src="img/x-lake.webp" alt="A lone abra on the lake beneath the Dubai Fountain at night" loading=lazy decoding="async"></picture></div><div class="v-shade"></div>
 <div class="v-in wrap"><p class="kicker"><span>Concierge</span></p><h2 class="bi d1"><span class="en">Book a private viewing.</span><span class="ar" lang="ar" dir="rtl">احجز معاينة خاصة</span></h2>
